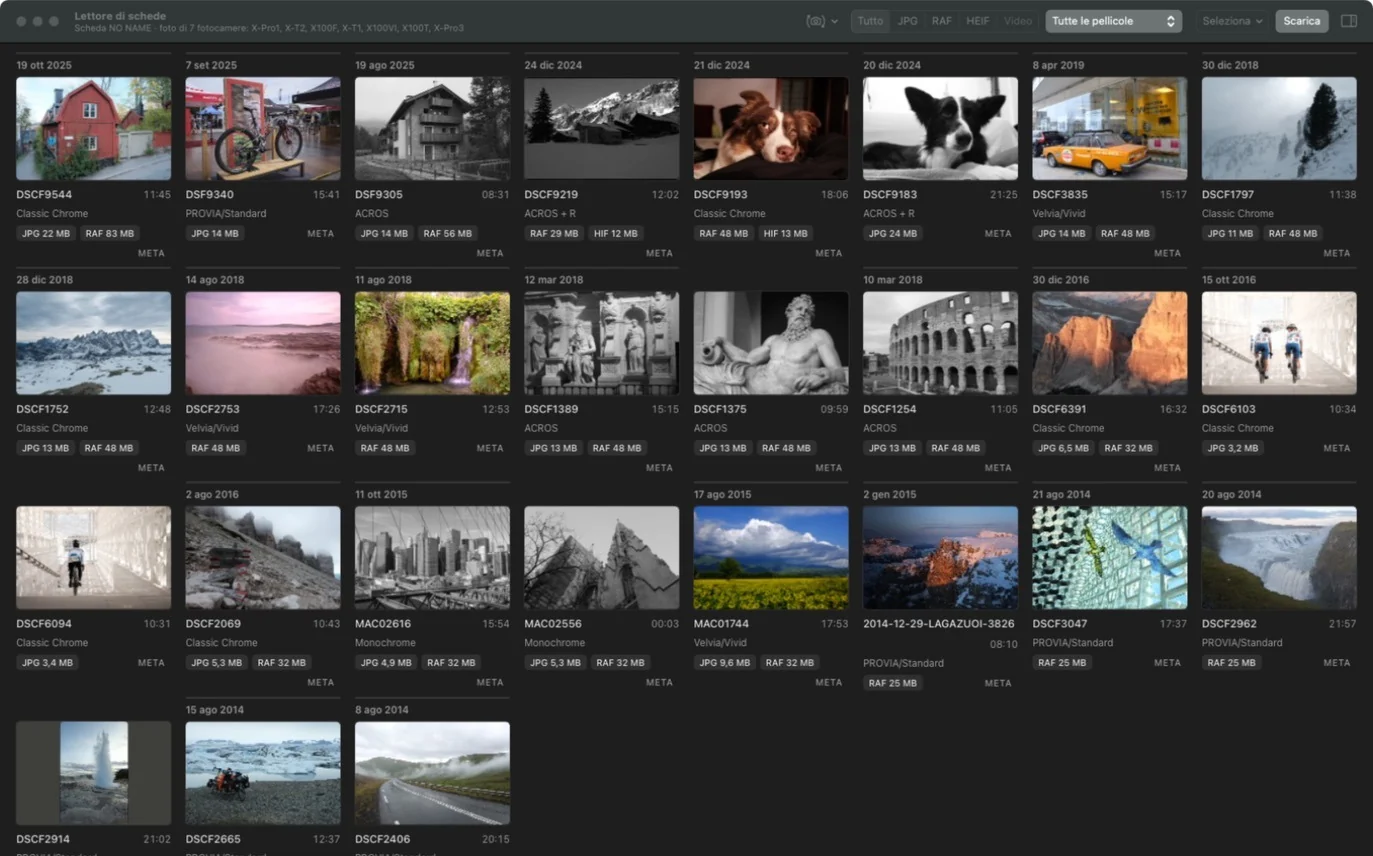
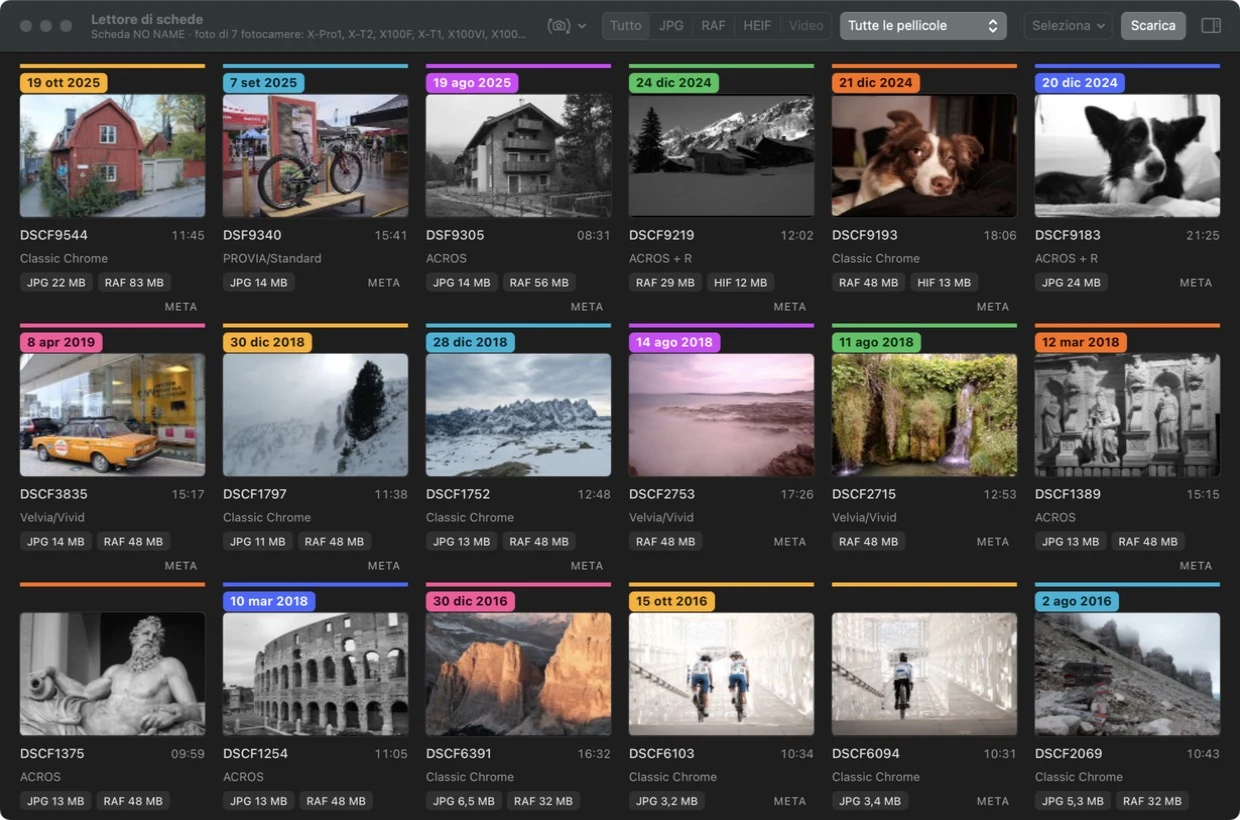
Website: new macOS screenshots for 1.1 (day colors, By date, event folder)
Claude-Session: https://claude.ai/code/session_01SGDZ4SLTg4GnEAkp6VNJjQ

diff --git a/docs/index.html b/docs/index.html
@@ -60,7 +60,7 @@
     <p class="soon"><span lang="it">macOS · Fedora e Ubuntu con GNOME · gratuito e open source (MIT)</span><span lang="en">macOS · Fedora and Ubuntu with GNOME · free and open source (MIT)</span></p>
   </div>
   <figure class="show">
-    <img class="main" src="img/mac-griglia-scuro.webp" alt="Provino su macOS in tema scuro: la griglia dei provini con le etichette JPG e RAF" width="1373" height="856">
+    <img class="main" src="img/mac-griglia-scuro.webp" alt="Provino su macOS in tema scuro: la griglia dei provini con un colore per ogni giornata e le etichette JPG e RAF" width="1240" height="820">
     <img class="over" src="img/gnome-foto-meta-scuro.webp" alt="Provino su GNOME in tema scuro: foto grande e pannello META con istogramma e ricetta" width="1320" height="860">
     <figcaption><span lang="it">macOS e GNOME: la stessa app, nativa su ogni sistema.</span><span lang="en">macOS and GNOME: the same app, native on each system.</span></figcaption>
   </figure>
@@ -95,11 +95,11 @@
           <figcaption><b><i>1</i><span lang="it">Ogni giornata, il suo colore</span><span lang="en">Each day, its own color</span></b><span lang="it">La linea sopra le foto e l'etichetta con la data cambiano colore a ogni giorno di scatto: vedi subito dove inizia e dove finisce un'uscita.</span><span lang="en">The line above the photos and the date label change color with every shooting day: you see at once where an outing starts and ends.</span></figcaption>
         </figure>
         <figure>
-          <img src="img/gnome-per-data-scuro.webp" alt="Seleziona, Per data: l'elenco dei giorni con le caselle da spuntare" width="1320" height="860" loading="lazy">
+          <img src="img/mac-per-data-scuro.webp" alt="Seleziona, Per data: l'elenco dei giorni con le caselle da spuntare" width="1220" height="806" loading="lazy">
           <figcaption><b><i>2</i><span lang="it">Seleziona › Per data…</span><span lang="en">Select › By date…</span></b><span lang="it">Spunti i giorni che ti servono, per esempio sabato e domenica, e Provino sceglie tutte le loro foto. Rispetta i filtri: con «RAF» attivo prende solo i RAF.</span><span lang="en">Tick the days you need, say Saturday and Sunday, and Provino picks all their photos. Filters still apply: with "RAF" on it takes only the RAFs.</span></figcaption>
         </figure>
         <figure>
-          <img src="img/gnome-evento-scuro.webp" alt="La finestra Scarica con la cartella dell'evento 2018_12_28_Dolomiti" width="1320" height="860" loading="lazy">
+          <img src="img/mac-evento-scuro.webp" alt="La finestra Scarica con la cartella dell'evento 2018_12_28_Dolomiti" width="1352" height="896" loading="lazy">
           <figcaption><b><i>3</i><span lang="it">Una cartella per l'evento</span><span lang="en">One folder per event</span></b><span lang="it">Il nome parte già dalla data del primo giorno, come <code>2026_10_30_</code>: aggiungi solo il nome dell'evento. Gli spazi diventano <code>_</code> da soli e puoi separare JPG e RAF dentro l'evento.</span><span lang="en">The name already starts with the first day's date, like <code>2026_10_30_</code>: just add the event name. Spaces turn into <code>_</code> by themselves and you can split JPG and RAF inside the event.</span></figcaption>
         </figure>
         <figure>
@@ -173,7 +173,7 @@
       </div>
       <div class="gallery">
         <img src="img/mac-scelta-scuro.webp" alt="macOS: scelta della fotocamera, con fotocamere e lettore collegati" loading="lazy" width="1373" height="856">
-        <img src="img/mac-scarica-scuro.webp" alt="macOS: foglio Scarica con l'anteprima delle cartelle" loading="lazy" width="1240" height="820">
+        <img src="img/gnome-evento-scuro.webp" alt="GNOME: finestra Scarica con la cartella dell'evento" loading="lazy" width="1320" height="860">
         <img src="img/gnome-scaricati-scuro.webp" alt="GNOME: download finito, con Apri cartella" loading="lazy" width="1320" height="860">
         <img src="img/mac-pdf-anteprima.webp" alt="Il PDF dei provini con le caselle Mi piace, aperto in Anteprima" loading="lazy" width="1250" height="936">
         <img src="img/gnome-gia-presenti-scuro.webp" alt="GNOME: file già nella cartella, scegli cosa fare" loading="lazy" width="1320" height="860">
